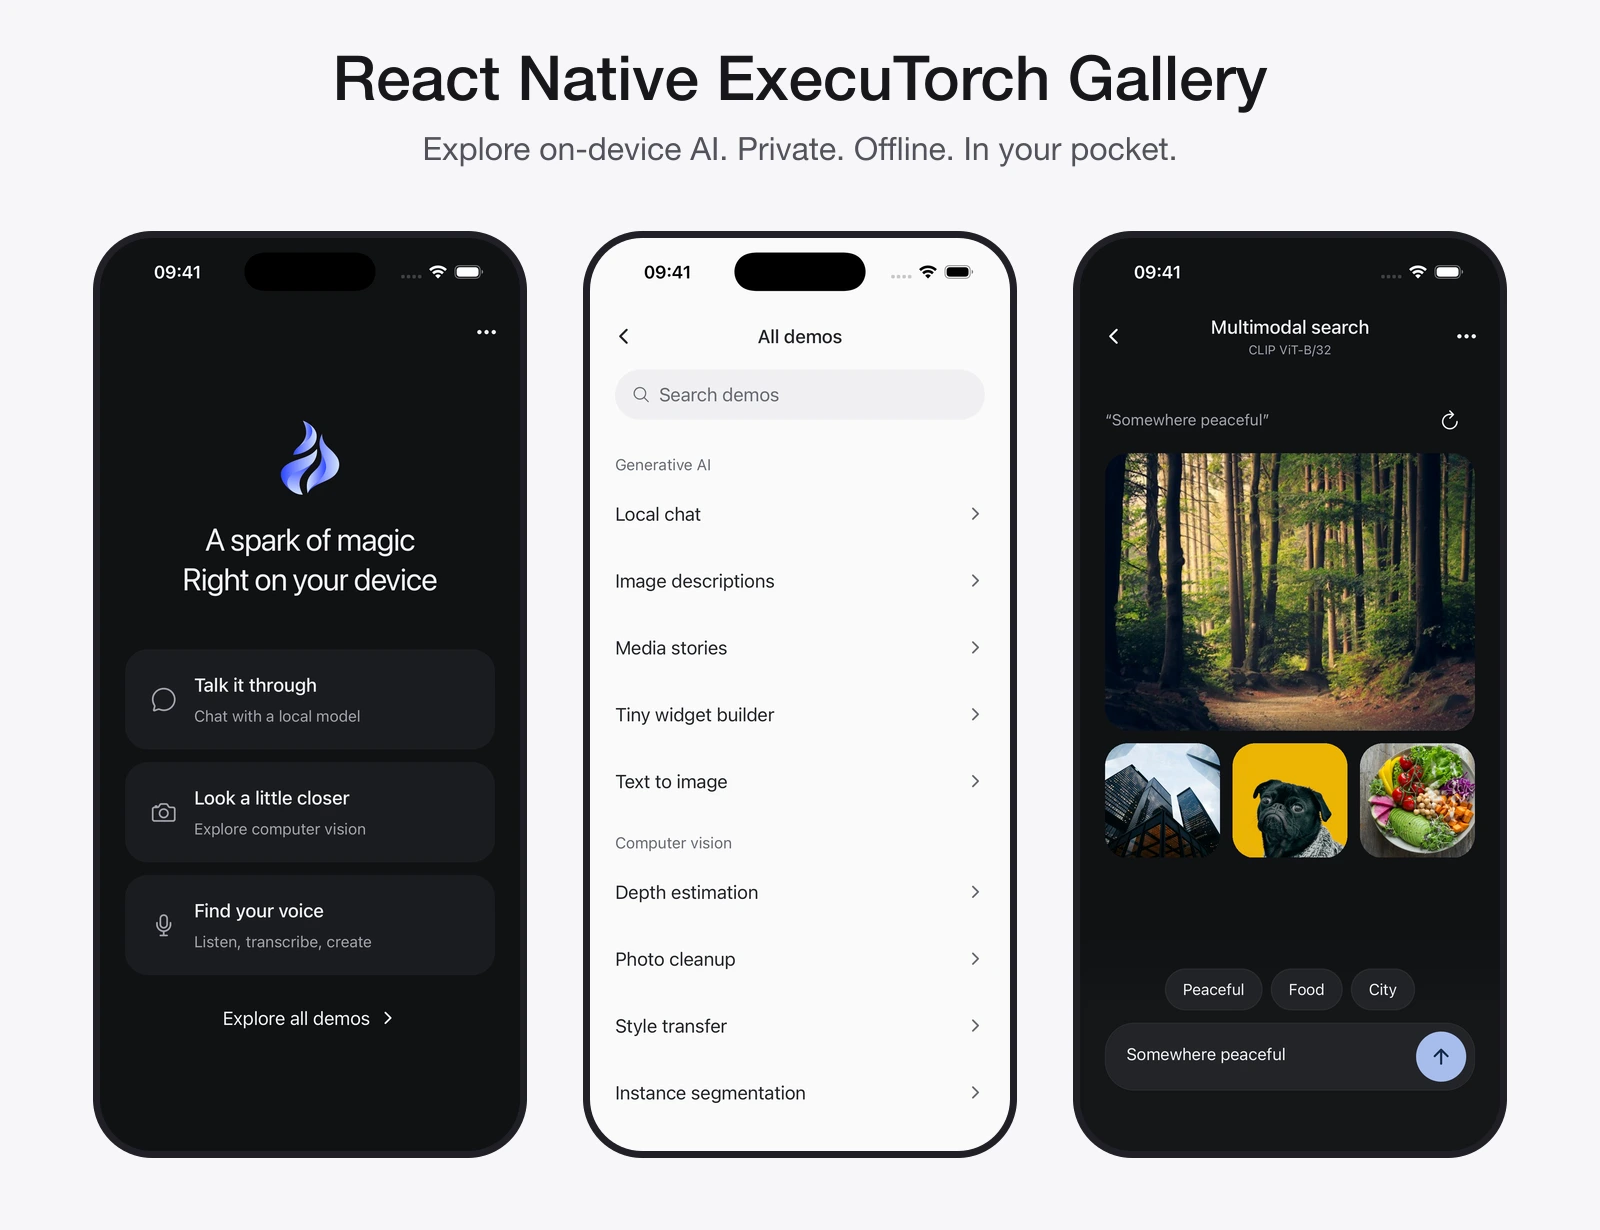
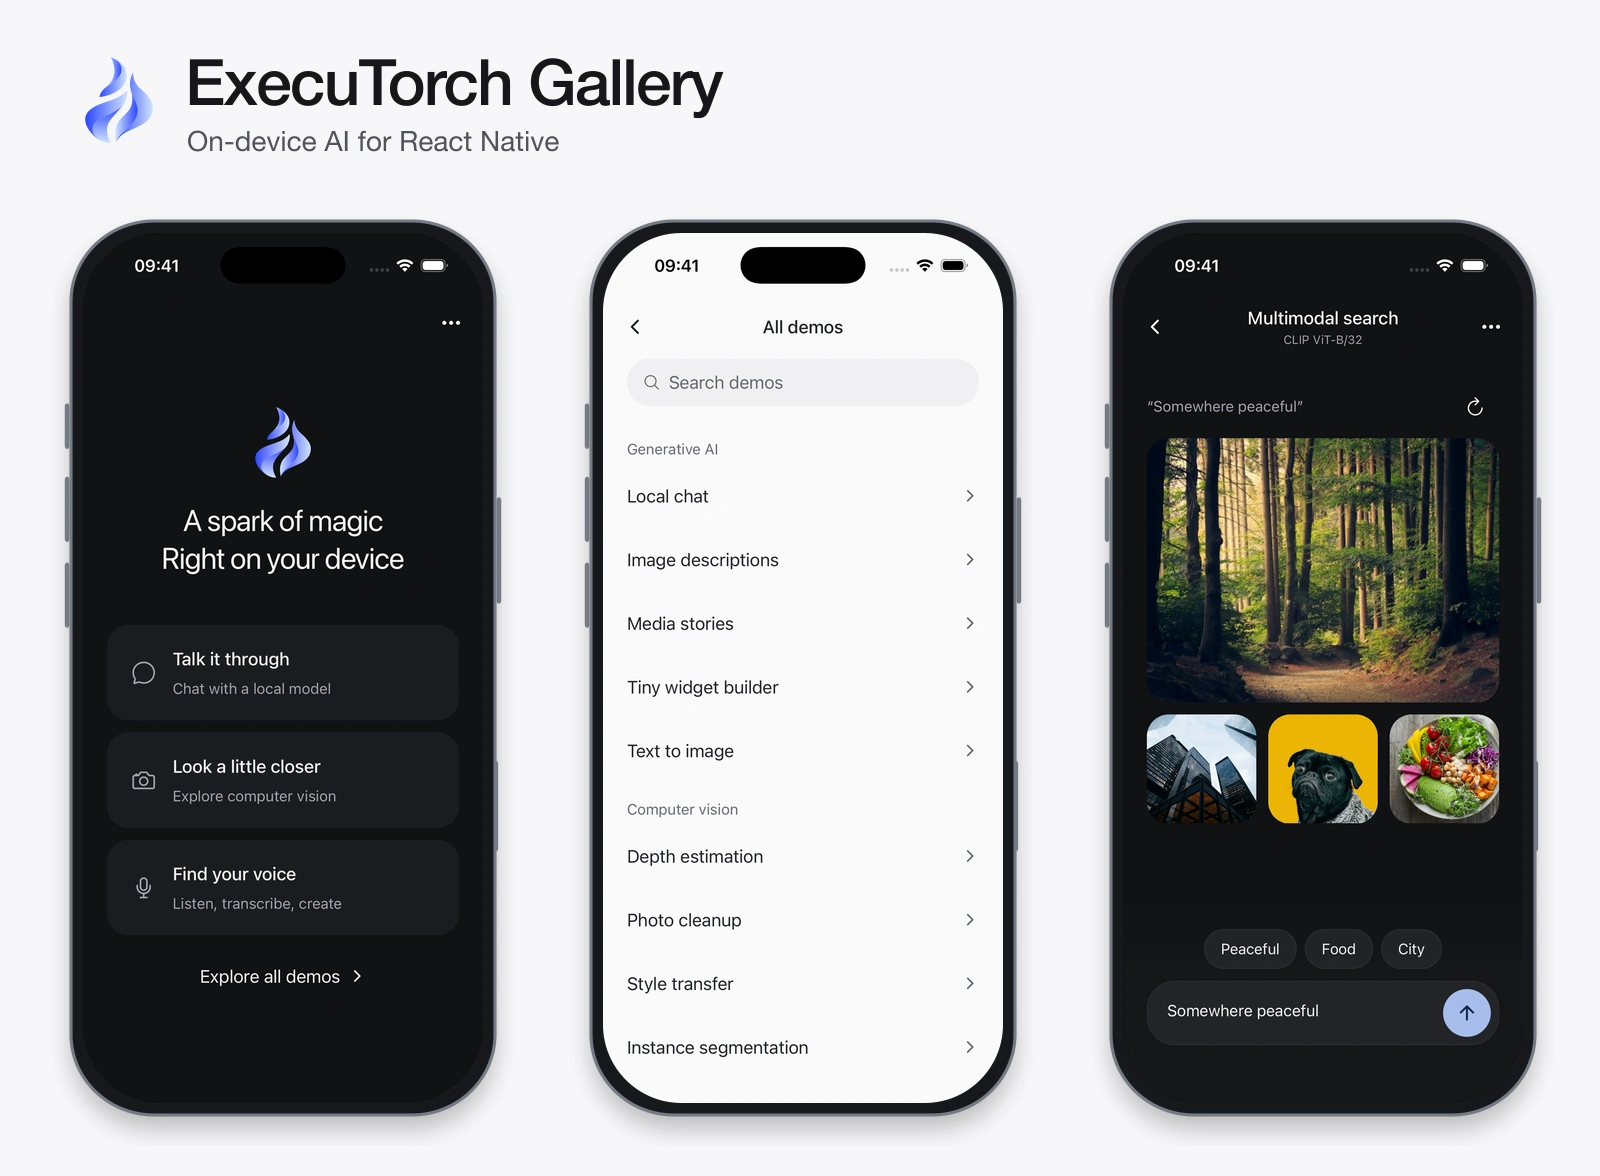
Refine README framing and showcase Maxwell equations in chat

diff --git a/README.md b/README.md
@@ -1,40 +1,23 @@
-# React Native ExecuTorch Gallery
-
-**React Native ExecuTorch Gallery** showcases on-device AI. Download models once, then run inference privately and fully offline on your device.
-
 <img src=".github/assets/banner.webp" width="1200" alt="Gallery home in dark mode, the demo catalogue in light mode, and an on-device photo search result in dark mode">
+
+Explore on-device AI with React Native ExecuTorch. Download models once, then run inference privately and fully offline on your device.
 
 ## In action
 
-Recorded in the iOS simulator with models already loaded.
+Recorded in the iOS simulator with models already loaded. From left: local chat, text to speech, and photo search.
 
-<details>
-<summary><strong>Photo search</strong> — find a photo with words</summary>
-
-<img src=".github/assets/search.webp" width="480" loading="lazy" alt="An on-device search for somewhere peaceful ranks a forest photo first">
-
-</details>
-
-<details>
-<summary><strong>Local chat</strong> — generate a response on your device</summary>
-
-<img src=".github/assets/chat.webp" width="480" loading="lazy" alt="A local language model suggests three names for a tiny robot">
-
-</details>
-
-<details>
-<summary><strong>Text to speech</strong> — follow the words as they are spoken</summary>
-
-<img src=".github/assets/speech.webp" width="480" loading="lazy" alt="On-device speech generation with word highlighting and replay">
-
-</details>
+<p align="center">
+  <img src=".github/assets/chat.webp" width="240" alt="A local model explains Maxwell’s equations with rendered LaTeX, then the conversation scrolls behind the frosted composer">
+  <img src=".github/assets/speech.webp" width="240" alt="On-device speech generation with word highlighting and replay">
+  <img src=".github/assets/search.webp" width="240" alt="An on-device search for somewhere peaceful ranks a forest photo first">
+</p>
 
 ## Demos
 
 Explore the categories below. Each demo links to its screen implementation.
 
 <details>
-<summary><strong>Generative AI</strong> · 5 demos</summary>
+<summary><strong>Generative AI</strong></summary>
 
 - [Local chat](<src/app/(screens)/llm-chat.tsx>)
 - [Image descriptions](<src/app/(screens)/image-description.tsx>)
@@ -45,7 +28,7 @@ Explore the categories below. Each demo links to its screen implementation.
 </details>
 
 <details>
-<summary><strong>Computer vision</strong> · 9 demos</summary>
+<summary><strong>Computer vision</strong></summary>
 
 - [Depth estimation](<src/app/(screens)/depth-estimation.tsx>)
 - [Photo cleanup](<src/app/(screens)/inpainting.tsx>)
@@ -60,14 +43,14 @@ Explore the categories below. Each demo links to its screen implementation.
 </details>
 
 <details>
-<summary><strong>Real time</strong> · 1 demo</summary>
+<summary><strong>Real time</strong></summary>
 
 - [Live object detection](<src/app/(screens)/realtime-object-detection.tsx>)
 
 </details>
 
 <details>
-<summary><strong>Audio & speech</strong> · 3 demos</summary>
+<summary><strong>Audio & speech</strong></summary>
 
 - [Text to speech](<src/app/(screens)/text-to-speech.tsx>)
 - [Speech to text](<src/app/(screens)/speech-to-text.tsx>)
@@ -76,7 +59,7 @@ Explore the categories below. Each demo links to its screen implementation.
 </details>
 
 <details>
-<summary><strong>Embeddings & search</strong> · 2 demos</summary>
+<summary><strong>Embeddings & search</strong></summary>
 
 - [Multimodal search](<src/app/(screens)/image-embeddings.tsx>)
 - [ColBERT retrieval](<src/app/(screens)/colbert-retrieval.tsx>)
@@ -84,7 +67,7 @@ Explore the categories below. Each demo links to its screen implementation.
 </details>
 
 <details>
-<summary><strong>Natural language processing</strong> · 2 demos</summary>
+<summary><strong>Natural language processing</strong></summary>
 
 - [Privacy filter](<src/app/(screens)/privacy-filter.tsx>)
 - [Translation](<src/app/(screens)/translation.tsx>)
